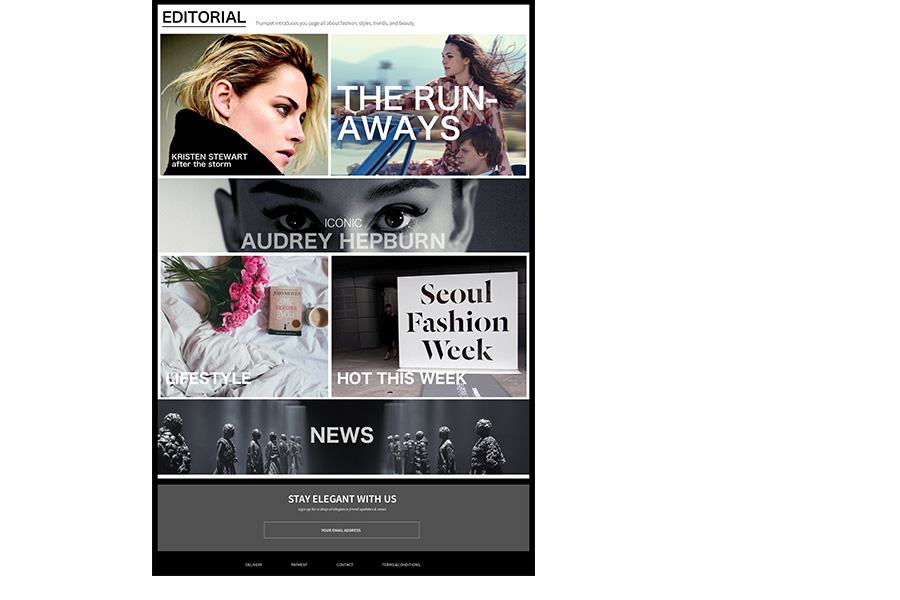
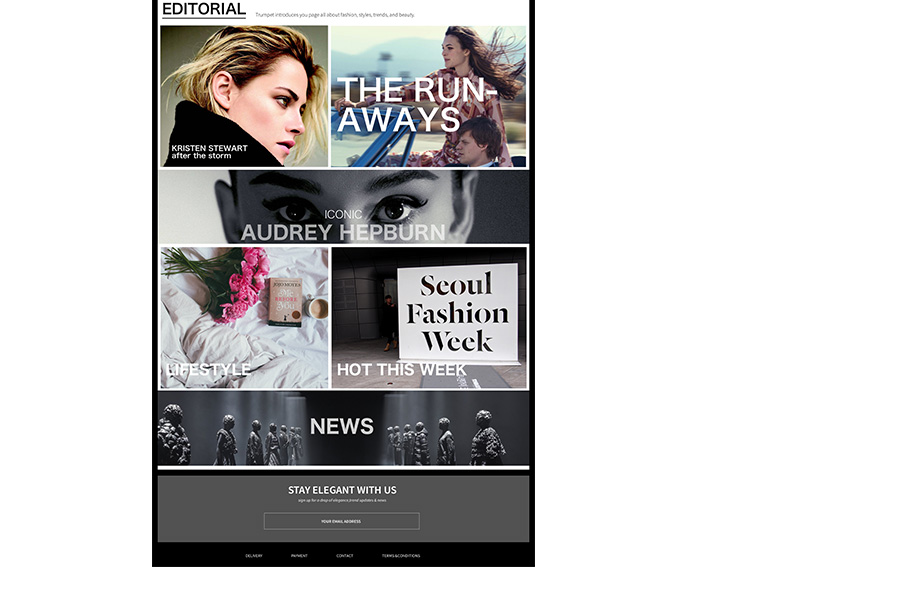
trumpet-update

Changed region(s): [[0.1556, 0.0, 0.5911, 0.96]]

diff --git a/projects/trumpet.html b/projects/trumpet.html
@@ -61,7 +61,7 @@ how I approached this project.</p>
      <img src="../images/Trumpet/kristen-steward-3.jpg" width="900">
      <img src="../images/Trumpet/lifestyle.jpg" width="900">
      <img src="../images/Trumpet/lifestyle-editorial.jpg" width="900">
-     <img src="../images/Trumpet/editorial-checkout.jpg" width="900">
+     <img src="../images/Trumpet/editorial.jpg" width="900">
      <img src="../images/Trumpet/projects-layout-2.jpg" width="900">
        
      <div class="next-button">
